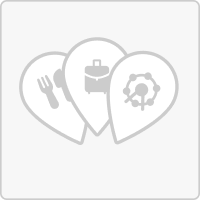
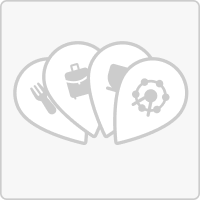
💄 아이콘 및 이미지 추가/수정

Changed region(s): [[0.15, 0.18, 0.96, 0.75], [0.06, 0.33, 0.36, 0.72], [0.57, 0.72, 0.6, 0.75]]

diff --git a/src/assets/svgs/index.ts b/src/assets/svgs/index.ts
@@ -8,6 +8,8 @@ export { default as DeleteIcon } from "./delete_icon.svg";
 
 export { default as MyRestaurantOnIcon } from "./my_restaurant_on_icon.svg";
 export { default as MyRestaurantOffIcon } from "./my_restaurant_off_icon.svg";
+export { default as MyCafeOnIcon } from "./my_cafe_on_icon.svg";
+export { default as MyCafeOffIcon } from "./my_cafe_off_icon.svg";
 export { default as MyHotelOnIcon } from "./my_hotel_on_icon.svg";
 export { default as MyHotelOffIcon } from "./my_hotel_off_icon.svg";
 export { default as MyAttractionOnIcon } from "./my_attraction_on_icon.svg";
